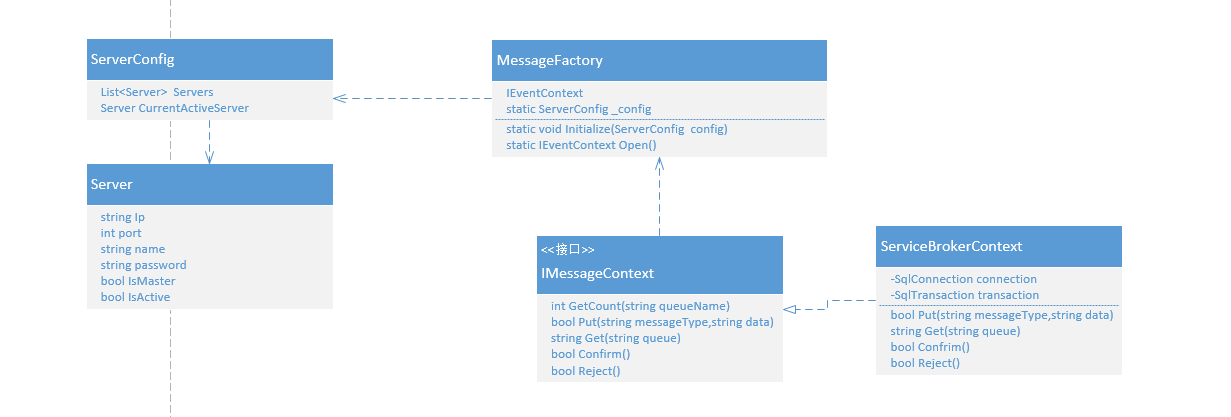
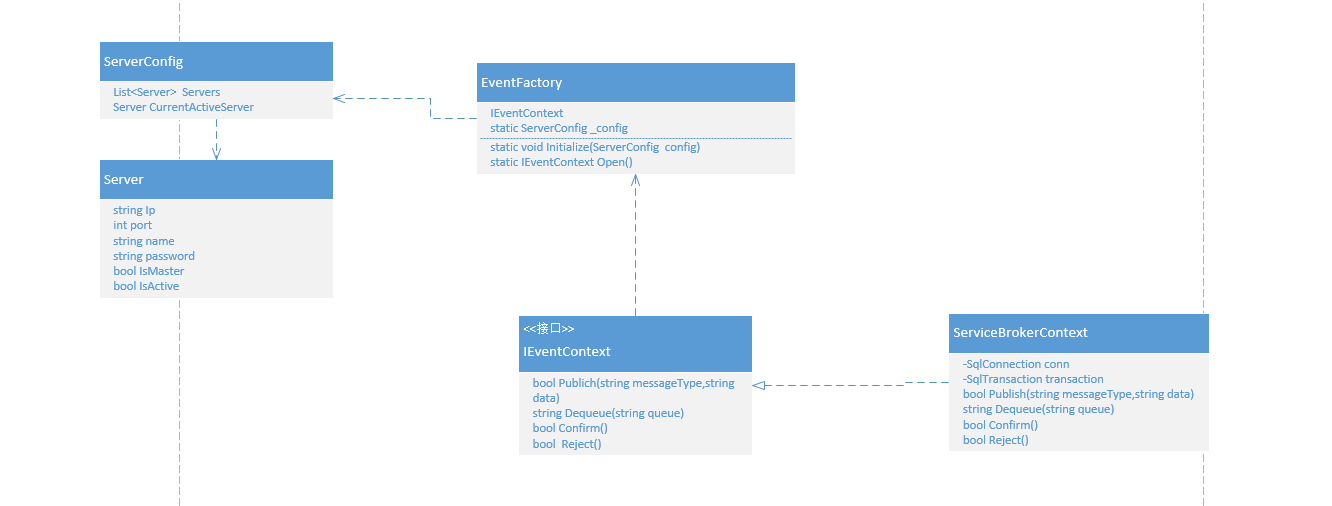
11232
231231

diff --git a/message queue.md b/message queue.md
@@ -93,21 +93,15 @@ public class MessageProducer
     {
    
       IMessageContext context=  MessageFactory.Open();
-      MessageData data=new MessageData();
-      data.Type=MessageType.chatEnded;
-      data.Data=chat;
-      string data=SerializeObject(queueData);
-      return  context.Put("chat.ended",data);
+      string data=SerializeObject(chat);
+      return  context.Publish("chat.ended",data);
     }
    
    public bool OfflineMessage(OfflineMessage offlineMessage)
    {
       IMessageContext context=  MessageFactory.Open();
-       MessageData data=new MessageData();
-      queueData.Type=MessageType.offlineMessageSubmitted;
-      queueData.Data=offlineMessage;
-      string data=SerializeObject(queueData);
-      return  context.Put("offlineMessage.submitted",data);
+      string data=SerializeObject(offlineMessage);
+      return  context.Publish("offlineMessage.submitted",data);
 
    }
    ...
@@ -290,13 +284,13 @@ public class EmailConsumer: IConsumer
       IMessageContext context=  MessageFactory.Open();
       try
       {
-      string data= context.Get("EmailQueue");
+      string data= context.Dequeue("EmailQueue");
       if(string.isnullorempty(data))continue;
       QueueData queueData=SerializeObject(data);
       if(queueData==null)
       {
         //添加到错误队列中
-        context.Put("Error",data);
+        context.Publish("Error",data);
         context.Confirm();
         continue;
       }
@@ -307,7 +301,7 @@ public class EmailConsumer: IConsumer
               if(queueData.Data数据格式及内容校验==false)
               {
               //添加到错误队列中
-              context.Put("Error",data);
+              context.Publish("Error",data);
               context.Confirm();
               //记录日志
               continue;
